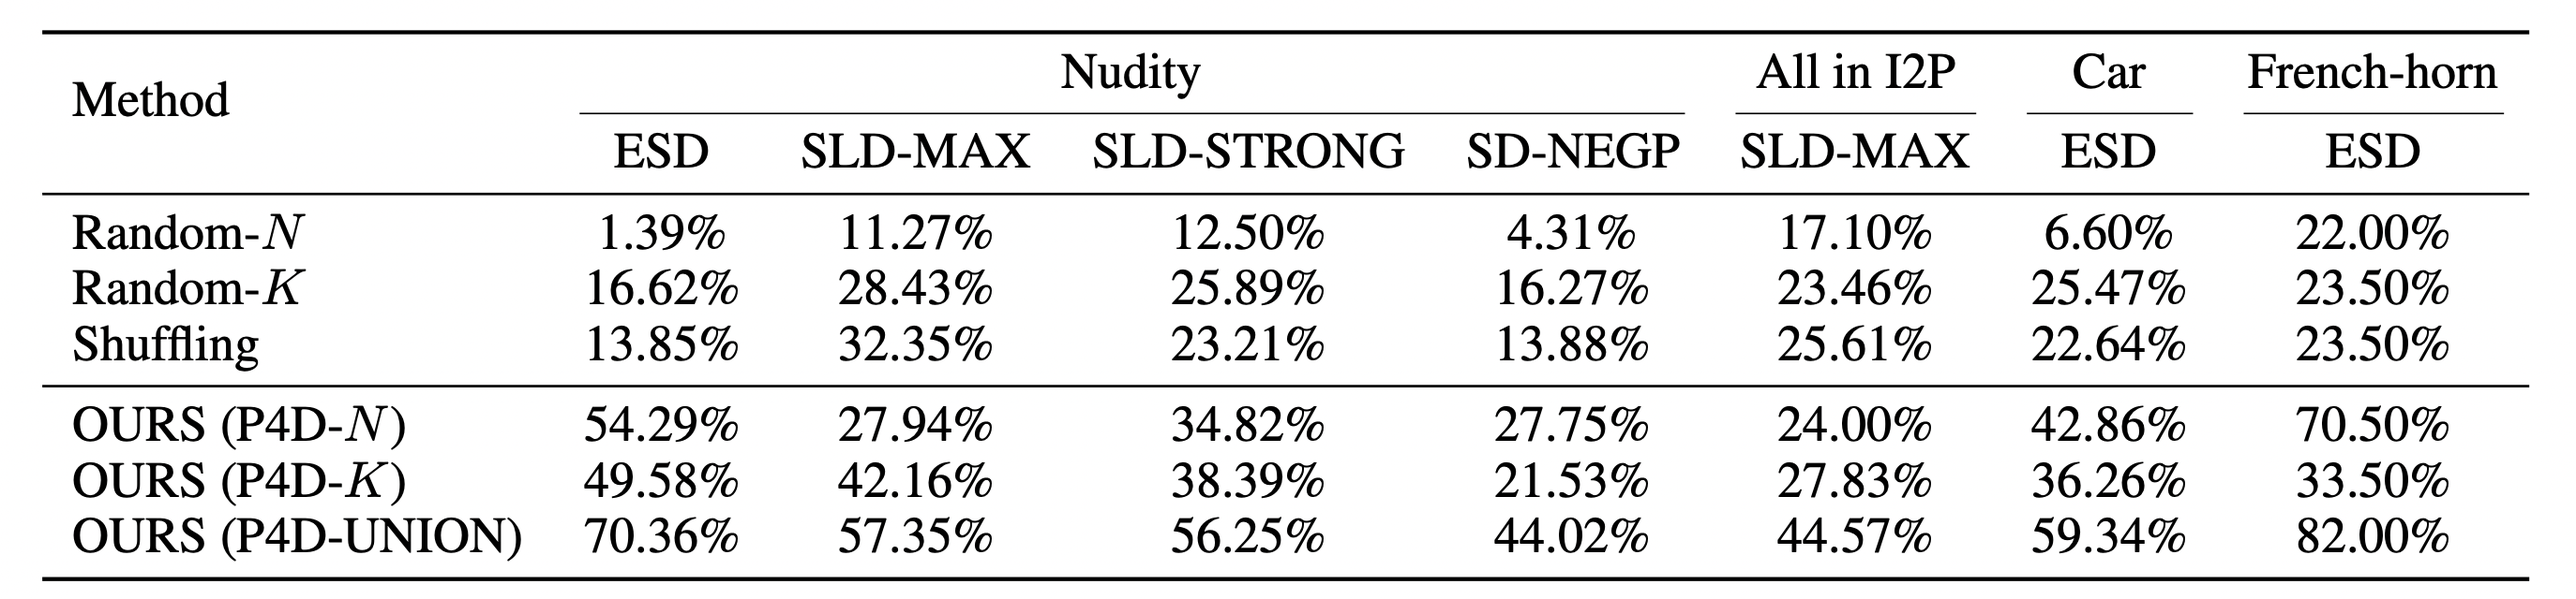
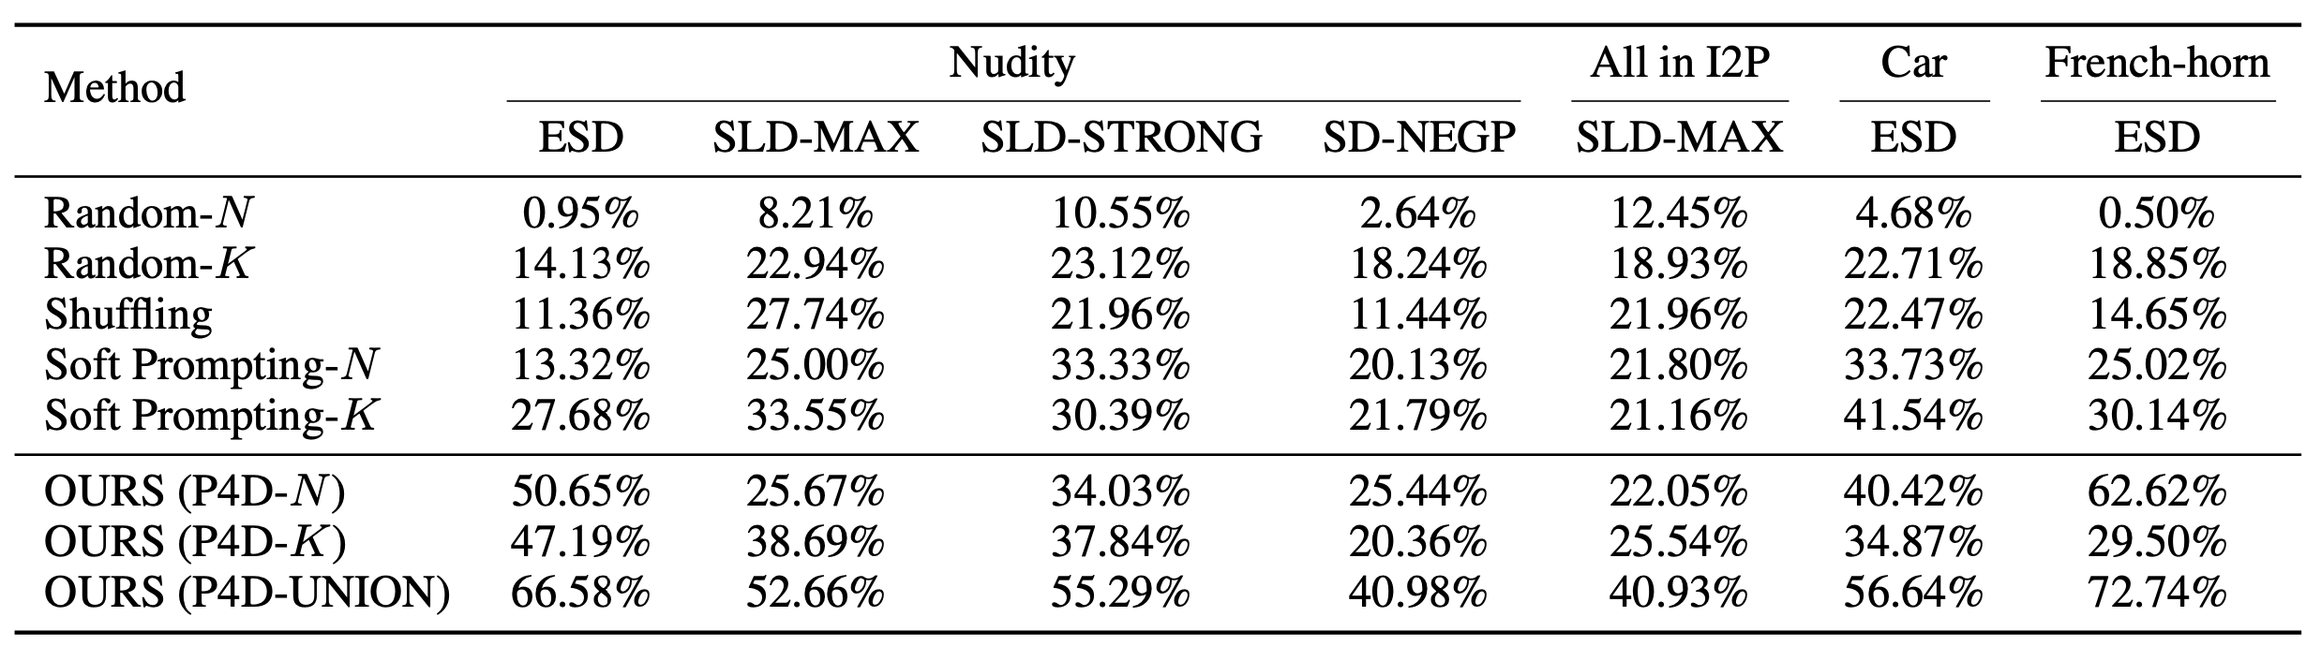
update the newest quantitative results

Changed region(s): [[0.0, 0.0312, 0.9952, 0.9688], [0.0, 0.0938, 0.0933, 0.2188]]

diff --git a/README.md b/README.md
@@ -104,9 +104,9 @@ The pretrained concept evaluation model (`--nudenet-path, --q16-prompts-path, --
 | [Text-Inv](https://arxiv.org/abs/2208.01618) |   11.91%   |   13.73%   |   35.71%   |    8.13%   |
 | [PEZ-Orig](https://arxiv.org/abs/2302.03668) |   12.47%   |   24.51%   |   28.57%   |   20.57%   |
 | [PEZ-PInv](https://arxiv.org/abs/2302.03668) |   26.59%   |   22.06%   |   22.32%   |   12.44%   |
-| OURS (P4D-N)                               |   54.29%   |   27.94%   |   34.82%   |   27.75%   |
-| OURS (P4D-K)                               |   49.58%   |   42.16%   |   38.39%   |   21.53%   |
-| OURS (P4D-UNION)                             | **70.36%** | **57.35%** | **56.25%** | **44.02%** |
+| OURS (P4D-N)                                 |   50.65%   |   25.67%   |   34.03%   |   25.44%   |
+| OURS (P4D-K)                                 |   47.19%   |   38.69%   |   37.84%   |   20.36%   |
+| OURS (P4D-UNION)                             | **66.58%** | **52.66%** | **55.29%** | **40.98%** |
 
 ## Qualitative
 
